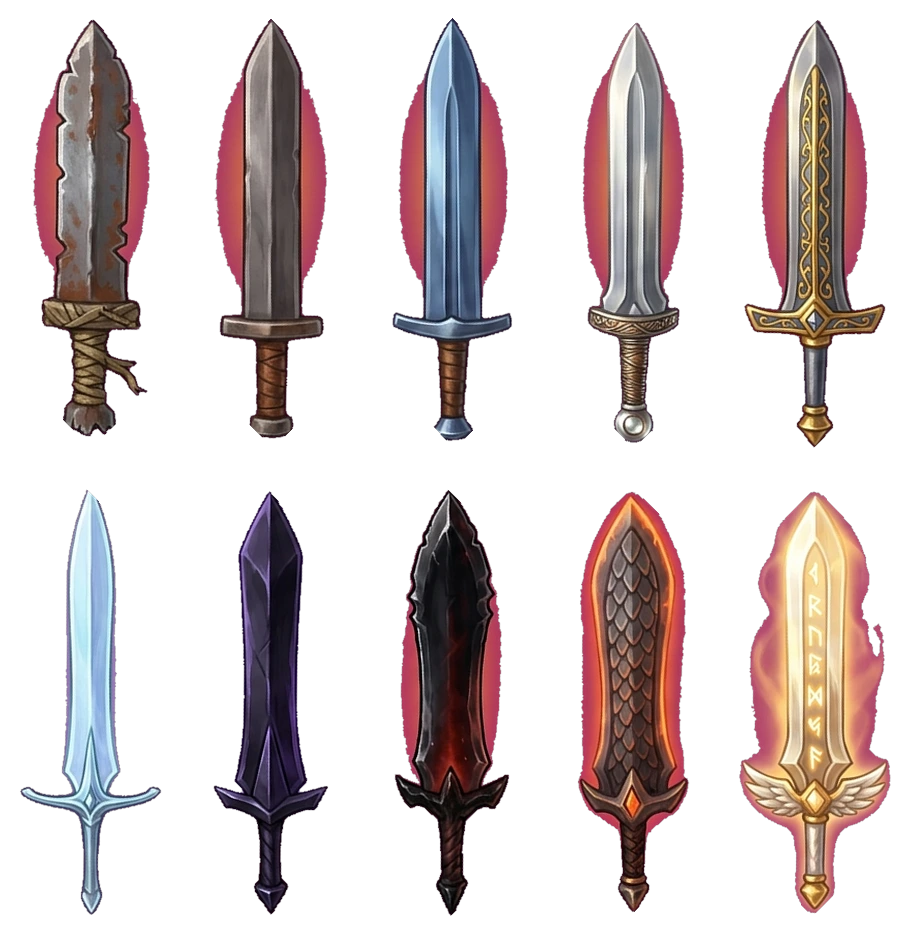
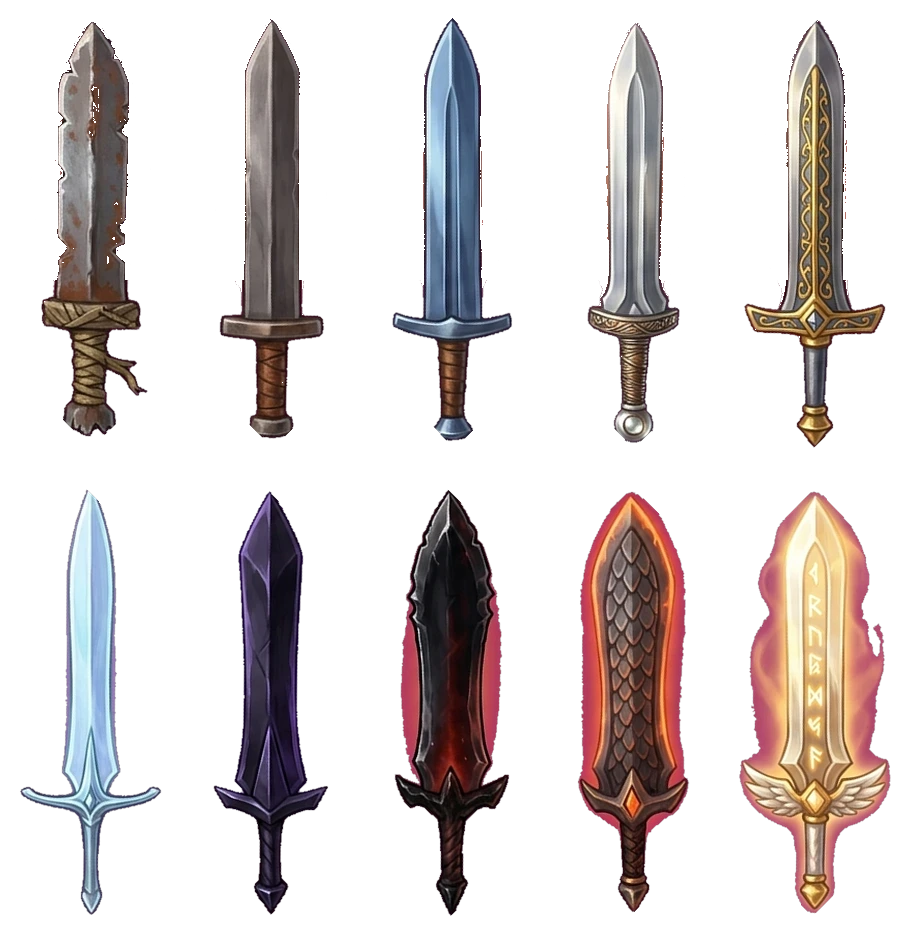
Poção mais cara por região, corrige folga de turno inicial e halo magenta da espada (#153)
- Poção de vida agora escala com o tier de acesso do jogador
  (potionBasePrice em lib/consumables.ts, base 40 x1.35/tier — mais que o
  dobro do preço fixo anterior de 19, subindo a cada região). Corrige
  também uma divergência entre o preço mostrado no Mercador e o valor
  realmente cobrado em GameShell (duas constantes desatualizadas
  diferentes), agora unificadas numa única função.
- Corrige folga determinística de ~380ms que dava ao jogador uma ação
  quase instantânea antes do primeiro ataque do inimigo em toda entrada
  de dungeon (LEAN_MS 260→90, remove +120ms extra do agendamento inicial
  do inimigo em DungeonPanel.tsx).
- Remove resquício de halo magenta atrás das espadas básicas do Cavaleiro
  em weapon-cavaleiro.webp (linha 1 do sprite sheet), preservando a
  textura de ferrugem e a arte da linha 2.

diff --git a/apps/reino-e-masmorras/src/components/GameShell.tsx b/apps/reino-e-masmorras/src/components/GameShell.tsx
@@ -1,14 +1,14 @@
 import { useState } from 'react';
 import { AttributeKey, Character, ProfileState, RankEntry, Section, DungeonDef, EquipmentItem, ItemSlot, Rarity } from '../types/game';
 import { findCosmetic } from '../lib/cosmetics';
-import { DUNGEONS } from '../lib/dungeons';
+import { DUNGEONS, highestAccessibleItemTier } from '../lib/dungeons';
 import { BUILDINGS, computeKingdomBonuses } from '../lib/buildings';
 import { sellValue } from '../lib/equipment';
 import { enhanceCost, MAX_ENHANCE_LEVEL, successChanceForLevel } from '../lib/enhancement';
 import { placeInInventory } from '../lib/inventoryGrid';
 import { maybeRefreshMerchantStock } from '../lib/merchantStock';
 import { MAX_EQUIPPED_ABILITIES } from '../lib/skills';
-import { MAX_POTIONS } from '../lib/consumables';
+import { MAX_POTIONS, potionBasePrice } from '../lib/consumables';
 import { playBuySellSfx } from '../lib/audio';
 import { TopBar } from './TopBar';
 import { Sidebar } from './Sidebar';
@@ -28,8 +28,6 @@ import { DungeonPanel, RunStats, EMPTY_RUN_STATS } from './DungeonPanel';
 import { Ferreiro } from './Ferreiro';
 import { Modal } from './Modal';
 import { SmallButton } from './Button';
-
-const POTION_COST = 15;
 
 // Tracks a "repetir automaticamente" farming sequence in progress —
 // `current` is the attempt DungeonPanel is on right now (1-indexed);
@@ -260,7 +258,7 @@ export function GameShell({
   }
 
   function handleBuyPotion() {
-    const cost = Math.max(1, Math.round(POTION_COST * (1 - kingdomBonuses.merchantDiscountPct)));
+    const cost = Math.max(1, Math.round(potionBasePrice(highestAccessibleItemTier(character)) * (1 - kingdomBonuses.merchantDiscountPct)));
     if (character.gold < cost || character.potions >= MAX_POTIONS) return;
     onCharacterChange({ ...character, gold: character.gold - cost, potions: character.potions + 1 });
     playBuySellSfx();

diff --git a/apps/reino-e-masmorras/src/components/Mercador.tsx b/apps/reino-e-masmorras/src/components/Mercador.tsx
@@ -6,7 +6,8 @@ import { rarityColor } from '../lib/equipment';
 import { itemDisplayName, primaryStatLines, secondaryStatLabels } from '../lib/enhancement';
 import { priceForStockItem, STOCK_COLS, STOCK_ROWS } from '../lib/merchantStock';
 import { canFitInInventory, placeInInventory, SLOT_FOOTPRINT } from '../lib/inventoryGrid';
-import { MAX_POTIONS } from '../lib/consumables';
+import { MAX_POTIONS, potionBasePrice } from '../lib/consumables';
+import { highestAccessibleItemTier } from '../lib/dungeons';
 import { playBuySellSfx } from '../lib/audio';
 import { Button, SmallButton } from './Button';
 import { Modal } from './Modal';
@@ -15,10 +16,6 @@ import { IconCoin } from './icons';
 import pergaminho from '../assets/pergaminho.webp';
 import pocaoIcon from '../assets/pocao.webp';
 import mercadorCena from '../assets/mercador-cena.webp';
-
-// 2026 rebalance, take three: +25% (15 -> 19) per direct instruction — gold
-// was accumulating too fast partly because sustain stayed this cheap.
-const POTION_BASE_COST = 19;
 
 interface Props {
   character: Character;
@@ -40,7 +37,7 @@ export function Mercador({ character: ch, onBuyPotion, onCharacterChange, onClos
   const [selected, setSelected] = useState<EquipmentItem | null>(null);
   const kingdomBonuses = computeKingdomBonuses(ch.buildings);
   const discount = kingdomBonuses.merchantDiscountPct;
-  const potionCost = Math.max(1, Math.round(POTION_BASE_COST * (1 - discount)));
+  const potionCost = Math.max(1, Math.round(potionBasePrice(highestAccessibleItemTier(ch)) * (1 - discount)));
 
   function buyStockItem(item: EquipmentItem) {
     const price = priceForStockItem(item, discount);

diff --git a/apps/reino-e-masmorras/src/components/DungeonPanel.tsx b/apps/reino-e-masmorras/src/components/DungeonPanel.tsx
@@ -56,9 +56,14 @@ const ATTACK_INTERVAL = 2200;
 const FLOAT_DURATION_MS = 1500;
 // Player and enemy now run on independent action clocks (see playerAct/
 // enemyAct); this only offsets the enemy's very first action so the two
-// don't visually land in the exact same instant every round for a
-// zero-AGI build, matching the stagger the old single shared round had.
-const LEAN_MS = 260;
+// don't visually land in the exact same instant on the opening exchange.
+// Was 260ms, stacked with another +120ms at the call site (380ms total) —
+// enough to reliably let the player land a free hit before the enemy's
+// clock had even fired once, on every single dungeon start, not just a
+// cosmetic nudge. Cut down to a value too small to matter as a turn-order
+// edge, just enough to keep the two opening floaters from overlapping
+// pixel-for-pixel.
+const LEAN_MS = 90;
 const POTION_COOLDOWN_ROUNDS = 4;
 const BASE_POTION_HEAL_PCT = 0.4;
 const DROP_SLOTS: ItemSlot[] = ['weapon', 'body', 'legs', 'hands', 'offhand', 'accessory'];
@@ -1364,7 +1369,7 @@ export function DungeonPanel({
     mountedRef.current = true;
     scheduleEnv(700);
     schedulePlayer(700);
-    scheduleEnemy(700 + LEAN_MS + 120);
+    scheduleEnemy(700 + LEAN_MS);
     return () => { mountedRef.current = false; };
     // eslint-disable-next-line react-hooks/exhaustive-deps
   }, []);

diff --git a/apps/reino-e-masmorras/src/lib/consumables.ts b/apps/reino-e-masmorras/src/lib/consumables.ts
@@ -6,3 +6,19 @@ export const MAX_POTIONS = 5;
 // Presets for the auto-potion HP% trigger, configured on the pre-dungeon
 // loadout screen.
 export const POTION_THRESHOLD_OPTIONS = [0.2, 0.3, 0.4, 0.5];
+
+// 2026 rebalance: potions used to cost a flat 19 gold everywhere, no matter
+// how far the player had progressed — by the later regions that was pocket
+// change next to a single piece of gear, so sustain never got more of a
+// real decision the way everything else already had. Now scales with the
+// same itemTier a player's own gear/Mercador stock already tracks (see
+// highestAccessibleItemTier in lib/dungeons.ts) — reaching a new region's
+// dungeon raises this the same way it raises what drops there. Base is
+// more than double the old flat 19 at tier 1, then keeps climbing (milder
+// growth than gear's own 1.6/tier, since a potion is a repeat consumable
+// purchase, not a one-time upgrade).
+const POTION_TIER_BASE = 40;
+const POTION_TIER_GROWTH = 1.35;
+export function potionBasePrice(tier: number): number {
+  return Math.round(POTION_TIER_BASE * Math.pow(POTION_TIER_GROWTH, Math.max(1, tier) - 1));
+}
